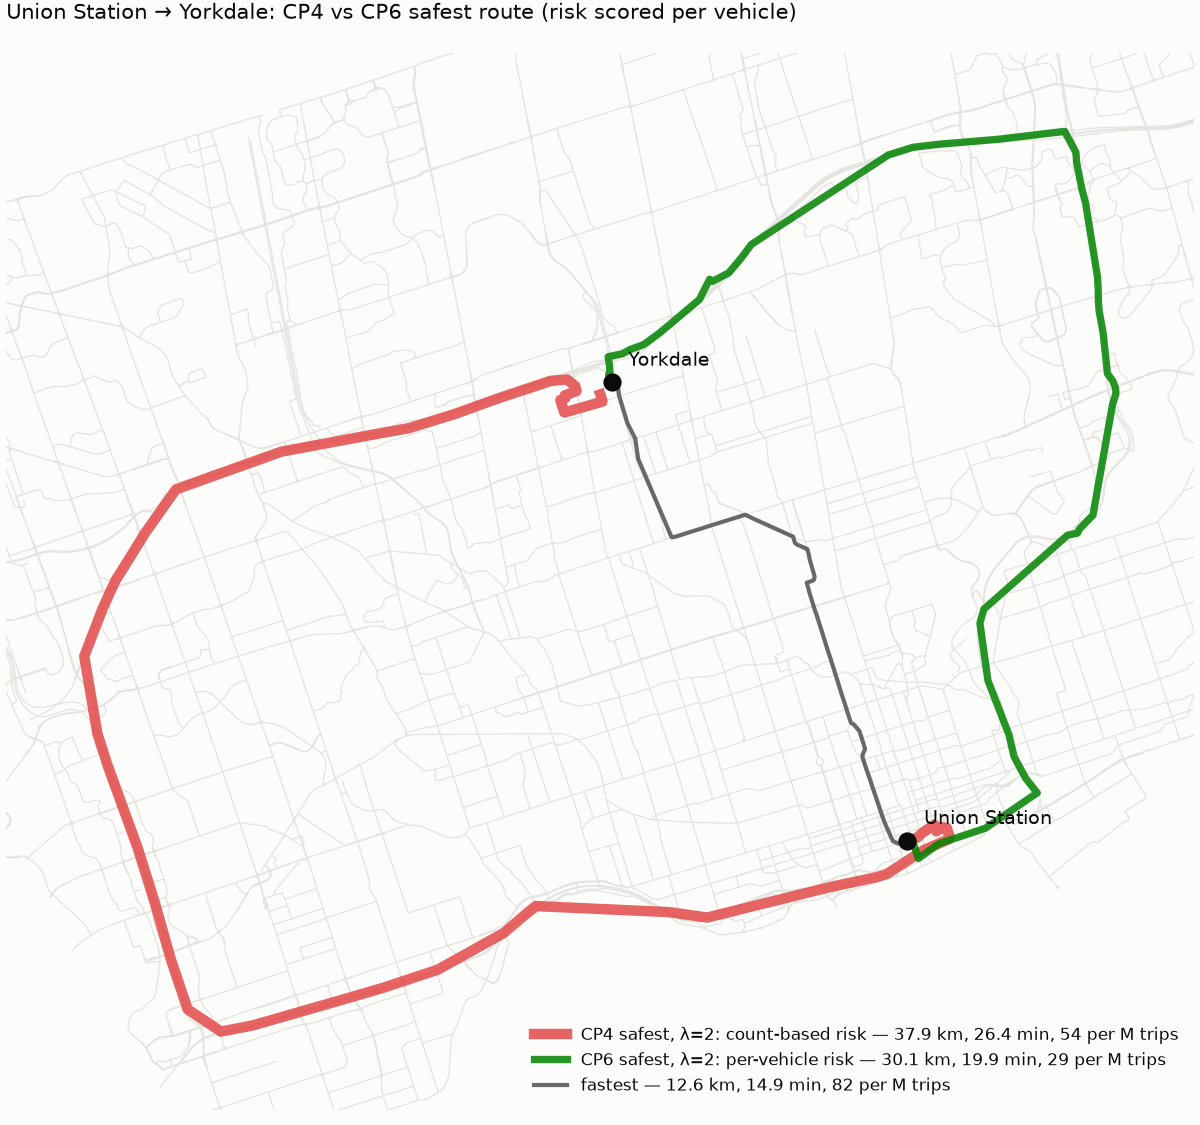
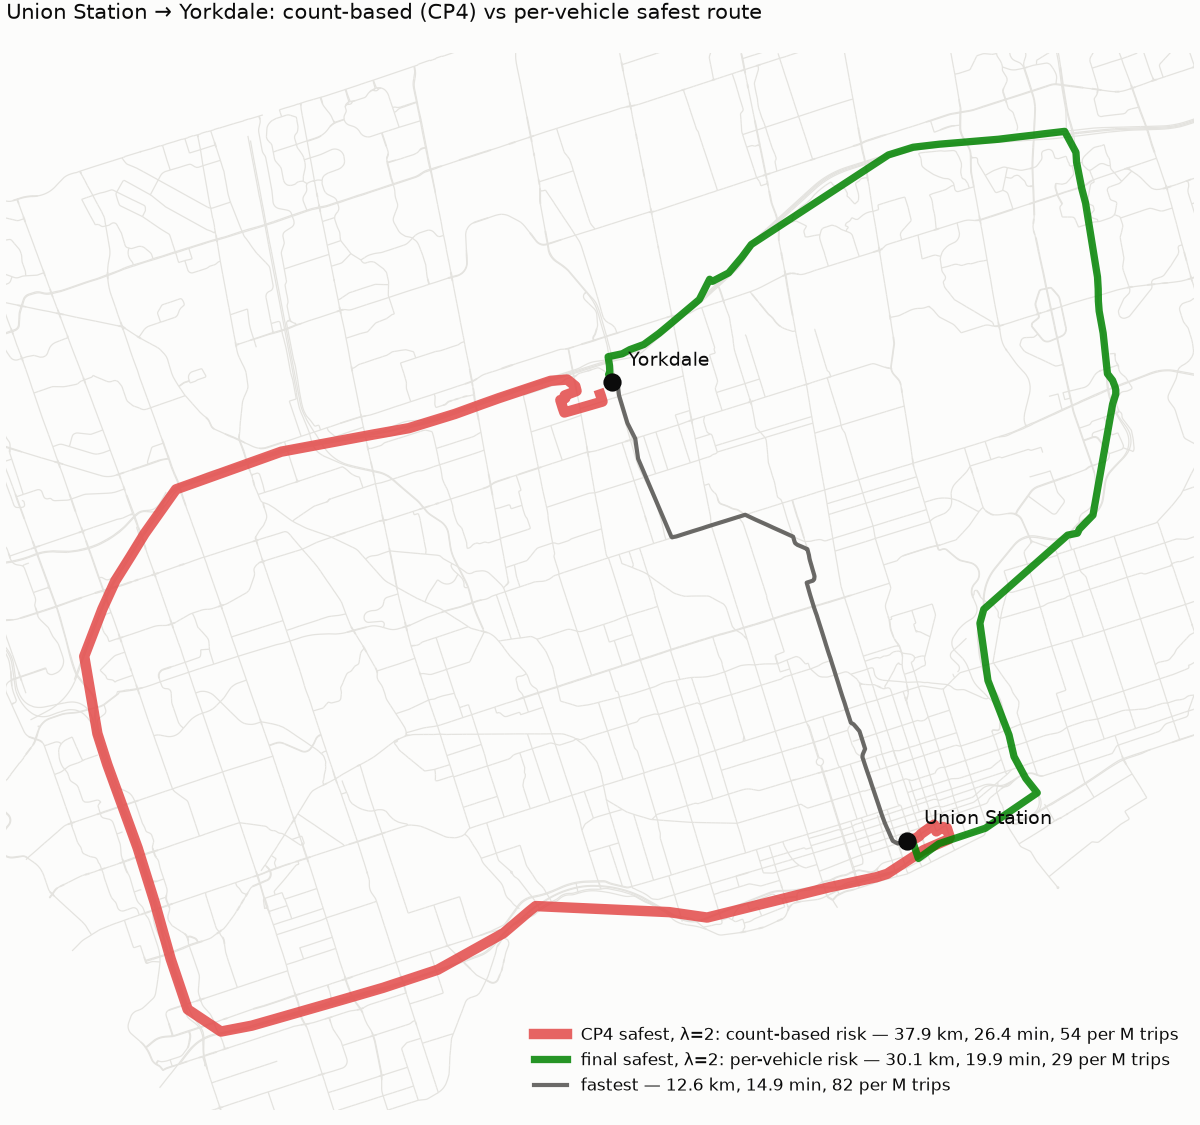
Re-validate routing on recalibrated risk against frozen CP4 and CP6 baselines

Changed region(s): [[0.2467, 0.0, 0.6783, 0.0311], [0.74, 0.9333, 0.9867, 0.9644], [0.4933, 0.9333, 0.7092, 0.9644]]

diff --git a/src/safepath/routing.py b/src/safepath/routing.py
@@ -434,6 +434,7 @@ def load_router(cfg: dict[str, Any], G: nx.MultiDiGraph | None = None) -> Router
 # --------------------------------------------------------------------------- sensitivity
 
 CP4_BASELINE = "cp4_baseline.json"
+CP6_BASELINE = "cp6_baseline.json"
 CITY_XWAY = ("Gardiner", "DVP", "Allen Road")
 
 
@@ -530,7 +531,7 @@ def plot_before_after(
     )
     styles = [
         (old, "#e34948", 5, f"CP4 safest, λ={lam:g}: count-based risk"),
-        (new, "#008300", 3.5, f"CP6 safest, λ={lam:g}: per-vehicle risk"),
+        (new, "#008300", 3.5, f"final safest, λ={lam:g}: per-vehicle risk"),
         (fast, TEXT_MUTED, 2, "fastest"),
     ]
     for route, color, width, label in styles:
@@ -548,7 +549,7 @@ def plot_before_after(
     ax.set_aspect("equal")
     ax.set_axis_off()
     ax.legend(loc="lower right", fontsize=8, frameon=False, labelcolor=TEXT)
-    ax.set_title("Union Station → Yorkdale: CP4 vs CP6 safest route (risk scored per vehicle)",
+    ax.set_title("Union Station → Yorkdale: count-based (CP4) vs per-vehicle safest route",
                  loc="left", fontsize=10, color=TEXT)  # fmt: skip
     fig.savefig(path, dpi=150, facecolor=SURFACE)
     plt.close(fig)
@@ -580,6 +581,7 @@ def run_routing(cfg: dict[str, Any]) -> dict[str, Any]:
         )
     sweep = pd.concat(sweeps)
     cp4 = json.loads((Path(cfg["paths"]["reports_dir"]) / CP4_BASELINE).read_text())
+    cp6 = json.loads((Path(cfg["paths"]["reports_dir"]) / CP6_BASELINE).read_text())
     segments = gpd.read_parquet(processed / SEGMENTS)
     case = plot_before_after(
         router, cp4["union_yorkdale_lambda2"], 2.0, segments,
@@ -587,25 +589,46 @@ def run_routing(cfg: dict[str, Any]) -> dict[str, Any]:
     )  # fmt: skip
     sens = run_sensitivity(cfg, router, pairs, lambdas)
     write_routing_report(
-        calib, summary, sweep, per_route_s, cp4, case, sens, reports / "routing.md"
+        calib, summary, sweep, per_route_s, cp4, cp6, case, sens, reports / "routing.md"
     )
     log.info("k = %.1f s per crash per million trips; wrote routing report",
              calib["k_seconds_per_crash"])  # fmt: skip
     return {"calibration": calib, "summary": summary, "case": case, "sensitivity": sens}
 
 
-def cp4_vs_cp6(cp4: dict[str, Any], summary: pd.DataFrame) -> pd.DataFrame:
-    old = pd.DataFrame(cp4["summary_200_trips"]).set_index("lam")
-    new = summary.set_index("lam")
+def version_table(cp4: dict[str, Any], cp6: dict[str, Any], summary: pd.DataFrame) -> pd.DataFrame:
+    versions = {
+        "CP4 (count-based)": pd.DataFrame(cp4["summary_200_trips"]).set_index("lam"),
+        "CP6 (per-vehicle, EB)": pd.DataFrame(cp6["summary_200_trips"]).set_index("lam"),
+        "CP7 (per-vehicle, recalibrated EB)": summary.set_index("lam"),
+    }
     cols = ["median extra min", "p90 extra min", "median % risk reduction",
             "median detour (km ratio)", "p90 detour (km ratio)", "motorway share",
             "residential share"]  # fmt: skip
     rows = []
-    for lam in new.index:
-        for label, src in (("CP4 (count-based)", old), ("CP6 (per-vehicle)", new)):
+    for lam in versions["CP7 (per-vehicle, recalibrated EB)"].index:
+        for label, src in versions.items():
             if lam in src.index:
                 rows.append({"λ": f"{lam:g}", "version": label, **src.loc[lam, cols].to_dict()})
     return pd.DataFrame(rows)
+
+
+def holds(cp6: dict[str, Any], summary: pd.DataFrame) -> list[str]:
+    """Plain statement of whether CP6's headline routing numbers survive recalibration."""
+    old = pd.DataFrame(cp6["summary_200_trips"]).set_index("lam")
+    new = summary.set_index("lam")
+    res_old, res_new = old.loc[1, "residential share"], new.loc[1, "residential share"]
+    cut_old, cut_new = old.loc[1, "median % risk reduction"], new.loc[1, "median % risk reduction"]
+    min_old, min_new = old.loc[1, "median extra min"], new.loc[1, "median extra min"]
+    res_word = "holds" if res_new <= 0.12 else "does not fully hold"
+    cut_word = "holds" if abs(cut_new - cut_old) <= 3 else "moved materially"
+    return [
+        f"- Residential share at λ = 1: {res_old:.0%} in CP6, {res_new:.0%} after "
+        f"recalibration; the drop from CP4's 21% {res_word}.",
+        f"- Median risk reduction at λ = 1: {cut_old:.1f}% in CP6, {cut_new:.1f}% now "
+        f"({cut_word}).",
+        f"- Median extra minutes at λ = 1: {min_old:.2f} in CP6, {min_new:.2f} now.",
+    ]
 
 
 def sensitivity_table(sens: pd.DataFrame) -> pd.DataFrame:
@@ -663,6 +686,7 @@ def write_routing_report(
     sweep: pd.DataFrame,
     per_route_s: float,
     cp4: dict[str, Any],
+    cp6: dict[str, Any],
     case: dict[str, Any],
     sens: pd.DataFrame,
     path: Path,
@@ -673,7 +697,7 @@ def write_routing_report(
     old = pd.DataFrame(cp4["summary_200_trips"]).set_index("lam")
     c4, c6, cf = case["cp4"], case["cp6"], case["fastest"]
     lines = [
-        "# Routing trade-off (CP6: per-vehicle risk)",
+        "# Routing trade-off (per-vehicle risk, recalibrated)",
         "",
         "Edge cost = travel_time (s, free-flow) + λ · k · risk, where risk is the expected "
         "number of crashes for one vehicle driving the edge, per million vehicles "
@@ -697,19 +721,22 @@ def write_routing_report(
         "",
         f"Mean routing time: {1000 * per_route_s:.0f} ms per route.",
         "",
-        "## CP4 vs CP6",
+        "## CP4 vs CP6 vs CP7",
         "",
         "CP4 routed on expected crashes per year at the locations a route passes (no "
-        "exposure). The '% risk reduction' columns are each version's own risk measure, so "
-        "they are not directly comparable; times, detours and road-class shares are.",
+        "exposure); CP6 on per-vehicle risk from EB; CP7 on per-vehicle risk from EB with the "
+        "volume recalibration (reports/calibration.md). CP4's '% risk reduction' is a "
+        "different risk measure, so it is not comparable; times, detours and road-class "
+        "shares are. CP6 numbers are frozen in reports/cp6_baseline.json.",
         "",
-        markdown_table(cp4_vs_cp6(cp4, summary), floats="{:.2f}"),
+        markdown_table(version_table(cp4, cp6, summary), floats="{:.2f}"),
         "",
+        *holds(cp6, summary),
         f"- Residential share at λ = 1: {old.loc[1, 'residential share']:.0%} in CP4, "
-        f"{s.loc[1, 'residential share']:.0%} now (fastest routes: "
+        f"{s.loc[1, 'residential share']:.0%} in CP7 (fastest routes: "
         f"{old.loc[0, 'residential share']:.0%} / {s.loc[0, 'residential share']:.0%}).",
         f"- Motorway share at λ = 1: {old.loc[1, 'motorway share']:.0%} in CP4, "
-        f"{s.loc[1, 'motorway share']:.0%} now (fastest routes: "
+        f"{s.loc[1, 'motorway share']:.0%} in CP7 (fastest routes: "
         f"{old.loc[0, 'motorway share']:.0%} / {s.loc[0, 'motorway share']:.0%}).",
         "",
         "## Case study: Union Station → Yorkdale at λ = 2",
@@ -724,12 +751,18 @@ def write_routing_report(
             for label, r in (
                 ("fastest", cf),
                 ("CP4 safest (count-based)", c4),
-                ("CP6 safest (per-vehicle)", c6),
+                ("CP7 safest (per-vehicle, recalibrated)", c6),
             )
         ],  # fmt: skip
+        *[
+            f"| CP6 safest (as reported in CP6) | {r['km']:.1f} | {r['minutes']:.1f} | "
+            f"{r['expected crashes per million trips']:.1f} | {r['motorway km']:.1f} |"
+            for r in cp6["union_yorkdale"]
+            if r["route"].startswith("CP6")
+        ],
         "",
-        "All three are scored with CP6 per-vehicle risk. The CP4 route ends at the node CP4 "
-        "snapped Yorkdale to (a turning circle on Highland Hill, behind the mall).",
+        "Fastest, CP4 and CP7 rows are scored with CP7 per-vehicle risk. The CP4 route ends "
+        "at the node CP4 snapped Yorkdale to (a turning circle on Highland Hill, behind the mall).",
         "",
         "**The Yorkdale hook.** CP4 snapped the Yorkdale preset (the middle of the mall) to the "
         "nearest graph node: a turning circle at the end of Highland Hill, a residential "

diff --git a/reports/routing.md b/reports/routing.md
@@ -1,45 +1,52 @@
-# Routing trade-off (CP6: per-vehicle risk)
+# Routing trade-off (per-vehicle risk, recalibrated)
 
 Edge cost = travel_time (s, free-flow) + λ · k · risk, where risk is the expected number of crashes for one vehicle driving the edge, per million vehicles (reports/risk.md). A route's risk is therefore expected crashes per million trips. Routing is turn-aware: a U-turn (driving back along the edge just used, or turning more than 150° back onto the same street through an intersection) costs 60 s.
 
 ## Scaling constant k
 
-k = **31.1 seconds per (crash per million trips)**, the fixed point of k = median travel time / median route risk on λ = 1 routes over 200 random origin/destination pairs (3-25 km apart, seed 7). Check: median risk cost / median travel time on the final λ = 1 routes = 1.000.
+k = **30.8 seconds per (crash per million trips)**, the fixed point of k = median travel time / median route risk on λ = 1 routes over 200 random origin/destination pairs (3-25 km apart, seed 7). Check: median risk cost / median travel time on the final λ = 1 routes = 1.000.
 
 | iteration | k | on |
 |---:|---:|---|
-| 0 | 21.46 | fastest routes |
-| 1 | 30.90 | lambda=1 routes |
-| 2 | 31.11 | lambda=1 routes |
+| 0 | 21.36 | fastest routes |
+| 1 | 30.54 | lambda=1 routes |
+| 2 | 30.81 | lambda=1 routes |
 
 ## Trade-off over 200 random pairs
 
 | lam | median extra min | p90 extra min | median % risk reduction | p90 % risk reduction | median detour (km ratio) | p90 detour (km ratio) | motorway share | residential share | routes with a U-turn |
 |---:|---:|---:|---:|---:|---:|---:|---:|---:|---:|
 | 0.00 | 0.00 | 0.00 | 0.00 | 0.00 | 1.00 | 1.00 | 0.50 | 0.03 | 0.00 |
-| 0.50 | 0.58 | 2.30 | 20.99 | 45.98 | 1.02 | 1.28 | 0.57 | 0.06 | 0.01 |
-| 1.00 | 1.45 | 3.62 | 26.54 | 50.17 | 1.04 | 1.44 | 0.58 | 0.08 | 0.03 |
-| 2.00 | 2.04 | 5.09 | 28.73 | 52.84 | 1.07 | 1.52 | 0.60 | 0.08 | 0.03 |
+| 0.50 | 0.58 | 2.34 | 20.64 | 45.67 | 1.02 | 1.28 | 0.57 | 0.06 | 0.01 |
+| 1.00 | 1.43 | 3.47 | 26.31 | 50.24 | 1.04 | 1.44 | 0.58 | 0.08 | 0.03 |
+| 2.00 | 2.04 | 5.21 | 28.64 | 52.68 | 1.07 | 1.53 | 0.61 | 0.08 | 0.03 |
 
-Mean routing time: 15 ms per route.
+Mean routing time: 13 ms per route.
 
-## CP4 vs CP6
+## CP4 vs CP6 vs CP7
 
-CP4 routed on expected crashes per year at the locations a route passes (no exposure). The '% risk reduction' columns are each version's own risk measure, so they are not directly comparable; times, detours and road-class shares are.
+CP4 routed on expected crashes per year at the locations a route passes (no exposure); CP6 on per-vehicle risk from EB; CP7 on per-vehicle risk from EB with the volume recalibration (reports/calibration.md). CP4's '% risk reduction' is a different risk measure, so it is not comparable; times, detours and road-class shares are. CP6 numbers are frozen in reports/cp6_baseline.json.
 
 | λ | version | median extra min | p90 extra min | median % risk reduction | median detour (km ratio) | p90 detour (km ratio) | motorway share | residential share |
 |---|---|---:|---:|---:|---:|---:|---:|---:|
 | 0 | CP4 (count-based) | 0.00 | 0.00 | 0.00 | 1.00 | 1.00 | 0.50 | 0.03 |
-| 0 | CP6 (per-vehicle) | 0.00 | 0.00 | 0.00 | 1.00 | 1.00 | 0.50 | 0.03 |
+| 0 | CP6 (per-vehicle, EB) | 0.00 | 0.00 | 0.00 | 1.00 | 1.00 | 0.50 | 0.03 |
+| 0 | CP7 (per-vehicle, recalibrated EB) | 0.00 | 0.00 | 0.00 | 1.00 | 1.00 | 0.50 | 0.03 |
 | 0.5 | CP4 (count-based) | 3.14 | 7.12 | 67.48 | 1.11 | 1.53 | 0.59 | 0.18 |
-| 0.5 | CP6 (per-vehicle) | 0.58 | 2.30 | 20.99 | 1.02 | 1.28 | 0.57 | 0.06 |
+| 0.5 | CP6 (per-vehicle, EB) | 0.58 | 2.30 | 20.99 | 1.02 | 1.28 | 0.57 | 0.06 |
+| 0.5 | CP7 (per-vehicle, recalibrated EB) | 0.58 | 2.34 | 20.64 | 1.02 | 1.28 | 0.57 | 0.06 |
 | 1 | CP4 (count-based) | 4.94 | 9.70 | 72.06 | 1.20 | 1.65 | 0.59 | 0.21 |
-| 1 | CP6 (per-vehicle) | 1.45 | 3.62 | 26.54 | 1.04 | 1.44 | 0.58 | 0.08 |
+| 1 | CP6 (per-vehicle, EB) | 1.45 | 3.62 | 26.54 | 1.04 | 1.44 | 0.58 | 0.08 |
+| 1 | CP7 (per-vehicle, recalibrated EB) | 1.43 | 3.47 | 26.31 | 1.04 | 1.44 | 0.58 | 0.08 |
 | 2 | CP4 (count-based) | 6.36 | 13.04 | 74.73 | 1.26 | 1.81 | 0.58 | 0.23 |
-| 2 | CP6 (per-vehicle) | 2.04 | 5.09 | 28.73 | 1.07 | 1.52 | 0.60 | 0.08 |
+| 2 | CP6 (per-vehicle, EB) | 2.04 | 5.09 | 28.73 | 1.07 | 1.52 | 0.60 | 0.08 |
+| 2 | CP7 (per-vehicle, recalibrated EB) | 2.04 | 5.21 | 28.64 | 1.07 | 1.53 | 0.61 | 0.08 |
 
-- Residential share at λ = 1: 21% in CP4, 8% now (fastest routes: 3% / 3%).
-- Motorway share at λ = 1: 59% in CP4, 58% now (fastest routes: 50% / 50%).
+- Residential share at λ = 1: 8% in CP6, 8% after recalibration; the drop from CP4's 21% holds.
+- Median risk reduction at λ = 1: 26.5% in CP6, 26.3% now (holds).
+- Median extra minutes at λ = 1: 1.45 in CP6, 1.43 now.
+- Residential share at λ = 1: 21% in CP4, 8% in CP7 (fastest routes: 3% / 3%).
+- Motorway share at λ = 1: 59% in CP4, 58% in CP7 (fastest routes: 50% / 50%).
 
 ## Case study: Union Station → Yorkdale at λ = 2
 
@@ -48,10 +55,11 @@ CP4 routed on expected crashes per year at the locations a route passes (no expo
 | route | km | minutes | expected crashes per million trips | motorway km |
 |---|---:|---:|---:|---:|
 | fastest | 12.6 | 14.9 | 82.2 | 3.2 |
-| CP4 safest (count-based) | 37.9 | 26.4 | 54.1 | 35.0 |
-| CP6 safest (per-vehicle) | 30.1 | 19.9 | 28.8 | 29.3 |
+| CP4 safest (count-based) | 37.9 | 26.4 | 54.0 | 35.0 |
+| CP7 safest (per-vehicle, recalibrated) | 30.1 | 19.9 | 28.7 | 29.3 |
+| CP6 safest (as reported in CP6) | 30.1 | 19.9 | 28.8 | 29.3 |
 
-All three are scored with CP6 per-vehicle risk. The CP4 route ends at the node CP4 snapped Yorkdale to (a turning circle on Highland Hill, behind the mall).
+Fastest, CP4 and CP7 rows are scored with CP7 per-vehicle risk. The CP4 route ends at the node CP4 snapped Yorkdale to (a turning circle on Highland Hill, behind the mall).
 
 **The Yorkdale hook.** CP4 snapped the Yorkdale preset (the middle of the mall) to the nearest graph node: a turning circle at the end of Highland Hill, a residential cul-de-sac behind the mall. Every route therefore left the 401 at Dufferin and wound south through Jane Osler, Groton, Bentworth and Ranee before turning back north into the cul-de-sac, which is the hook. It was a snapping artifact, not a routing one: the route had no repeated nodes. Fix: snap like a navigation app (never to a dead end; a point more than 100 m from any street snaps to the nearest arterial or collector access if it is within 150 m of the nearest street), so Yorkdale now snaps to Yorkdale Road. Separately, node-based routing could not see U-turns through divided-road intersections, which per-vehicle routing uses as a cheap way to dodge a risky intersection; routing now runs over turn movements with a U-turn penalty (tests: no immediate reversals; a median U-turn loses to a 30 s detour).
 
@@ -61,21 +69,21 @@ Freeway segment rates (400-series from MTO, city expressways from TPS) scaled by
 
 | variant | λ | median extra min | median % risk reduction | median detour (km ratio) | motorway share | residential share |
 |---|---:|---:|---:|---:|---:|---:|
-| baseline | 0.50 | 0.58 | 20.99 | 1.02 | 0.57 | 0.06 |
-| baseline | 1.00 | 1.45 | 26.54 | 1.04 | 0.58 | 0.08 |
-| baseline | 2.00 | 2.04 | 28.73 | 1.07 | 0.60 | 0.08 |
-| freeway rates x0.5 | 0.50 | 0.59 | 23.91 | 1.02 | 0.59 | 0.06 |
-| freeway rates x0.5 | 1.00 | 1.43 | 30.30 | 1.05 | 0.62 | 0.07 |
-| freeway rates x0.5 | 2.00 | 2.13 | 32.93 | 1.10 | 0.63 | 0.08 |
-| freeway rates x2 | 0.50 | 0.68 | 19.91 | 1.02 | 0.54 | 0.07 |
-| freeway rates x2 | 1.00 | 1.69 | 23.30 | 1.04 | 0.54 | 0.09 |
-| freeway rates x2 | 2.00 | 2.95 | 27.38 | 1.10 | 0.52 | 0.10 |
-| Gardiner/DVP/Allen volume +30% | 0.50 | 0.58 | 21.17 | 1.02 | 0.58 | 0.06 |
-| Gardiner/DVP/Allen volume +30% | 1.00 | 1.44 | 27.15 | 1.04 | 0.59 | 0.08 |
-| Gardiner/DVP/Allen volume +30% | 2.00 | 2.08 | 29.19 | 1.07 | 0.61 | 0.08 |
-| Gardiner/DVP/Allen volume -30% | 0.50 | 0.60 | 20.24 | 1.02 | 0.56 | 0.07 |
-| Gardiner/DVP/Allen volume -30% | 1.00 | 1.41 | 24.77 | 1.04 | 0.57 | 0.09 |
-| Gardiner/DVP/Allen volume -30% | 2.00 | 2.17 | 27.56 | 1.08 | 0.58 | 0.09 |
+| baseline | 0.50 | 0.58 | 20.64 | 1.02 | 0.57 | 0.06 |
+| baseline | 1.00 | 1.43 | 26.31 | 1.04 | 0.58 | 0.08 |
+| baseline | 2.00 | 2.04 | 28.64 | 1.07 | 0.61 | 0.08 |
+| freeway rates x0.5 | 0.50 | 0.61 | 23.25 | 1.02 | 0.59 | 0.06 |
+| freeway rates x0.5 | 1.00 | 1.40 | 29.87 | 1.05 | 0.62 | 0.07 |
+| freeway rates x0.5 | 2.00 | 2.12 | 32.09 | 1.10 | 0.63 | 0.08 |
+| freeway rates x2 | 0.50 | 0.68 | 19.97 | 1.02 | 0.54 | 0.07 |
+| freeway rates x2 | 1.00 | 1.57 | 22.77 | 1.04 | 0.54 | 0.09 |
+| freeway rates x2 | 2.00 | 2.89 | 27.17 | 1.10 | 0.53 | 0.10 |
+| Gardiner/DVP/Allen volume +30% | 0.50 | 0.58 | 20.72 | 1.02 | 0.58 | 0.06 |
+| Gardiner/DVP/Allen volume +30% | 1.00 | 1.43 | 26.76 | 1.04 | 0.59 | 0.08 |
+| Gardiner/DVP/Allen volume +30% | 2.00 | 2.08 | 29.39 | 1.08 | 0.61 | 0.08 |
+| Gardiner/DVP/Allen volume -30% | 0.50 | 0.60 | 19.57 | 1.02 | 0.56 | 0.07 |
+| Gardiner/DVP/Allen volume -30% | 1.00 | 1.40 | 24.58 | 1.04 | 0.57 | 0.09 |
+| Gardiner/DVP/Allen volume -30% | 2.00 | 2.11 | 27.57 | 1.07 | 0.58 | 0.09 |
 
 | variant | Union→Yorkdale λ=2 km | minutes |
 |---|---:|---:|
@@ -85,10 +93,10 @@ Freeway segment rates (400-series from MTO, city expressways from TPS) scaled by
 | Gardiner/DVP/Allen volume +30% | 30.1 | 19.9 |
 | Gardiner/DVP/Allen volume -30% | 30.6 | 20.3 |
 
-- freeway rates x0.5: motorway share 58% -> 62%, median extra minutes 1.45 -> 1.43, median risk reduction 27% -> 30% (λ = 1).
-- freeway rates x2: motorway share 58% -> 54%, median extra minutes 1.45 -> 1.69, median risk reduction 27% -> 23% (λ = 1).
-- Gardiner/DVP/Allen volume +30%: motorway share 58% -> 59%, median extra minutes 1.45 -> 1.44, median risk reduction 27% -> 27% (λ = 1).
-- Gardiner/DVP/Allen volume -30%: motorway share 58% -> 57%, median extra minutes 1.45 -> 1.41, median risk reduction 27% -> 25% (λ = 1).
+- freeway rates x0.5: motorway share 58% -> 62%, median extra minutes 1.43 -> 1.40, median risk reduction 26% -> 30% (λ = 1).
+- freeway rates x2: motorway share 58% -> 54%, median extra minutes 1.43 -> 1.57, median risk reduction 26% -> 23% (λ = 1).
+- Gardiner/DVP/Allen volume +30%: motorway share 58% -> 59%, median extra minutes 1.43 -> 1.43, median risk reduction 26% -> 27% (λ = 1).
+- Gardiner/DVP/Allen volume -30%: motorway share 58% -> 57%, median extra minutes 1.43 -> 1.40, median risk reduction 26% -> 25% (λ = 1).
 - Across all variants at λ = 1 the motorway share spans 8% (54%-62%), against 50% on the fastest routes.
 - **Conclusion:** the direction of the behaviour does not depend on the MTO/TPS comparability assumption: halving or doubling every freeway rate still leaves safer routes leaning on freeways (motorway share above the fastest routes' in every variant), and moves extra time and risk reduction by a fraction of their baseline values. The size of the freeway lean does depend on it.
 
@@ -106,18 +114,18 @@ Freeway segment rates (400-series from MTO, city expressways from TPS) scaled by
 
 | lam | minutes | expected_crashes | km | extra_minutes | risk_reduction_pct |
 |---:|---:|---:|---:|---:|---:|
-| 0.00 | 14.94 | 82.19 | 12.61 | 0.00 | 0.00 |
-| 0.10 | 14.94 | 82.19 | 12.61 | 0.00 | 0.00 |
-| 0.25 | 19.61 | 29.45 | 29.79 | 4.67 | 64.18 |
-| 0.50 | 19.61 | 29.45 | 29.79 | 4.67 | 64.18 |
-| 0.75 | 19.72 | 29.11 | 29.93 | 4.78 | 64.59 |
-| 1.00 | 19.72 | 29.11 | 29.93 | 4.78 | 64.59 |
-| 1.50 | 19.88 | 28.82 | 30.10 | 4.94 | 64.94 |
-| 2.00 | 19.88 | 28.82 | 30.10 | 4.94 | 64.94 |
-| 3.00 | 20.27 | 28.48 | 30.60 | 5.33 | 65.35 |
-| 5.00 | 20.27 | 28.48 | 30.60 | 5.33 | 65.35 |
-| 7.50 | 20.59 | 28.37 | 31.07 | 5.64 | 65.48 |
-| 10.00 | 20.59 | 28.37 | 31.07 | 5.64 | 65.48 |
+| 0.00 | 14.94 | 82.18 | 12.61 | 0.00 | 0.00 |
+| 0.10 | 14.94 | 82.18 | 12.61 | 0.00 | 0.00 |
+| 0.25 | 19.61 | 29.26 | 29.79 | 4.67 | 64.39 |
+| 0.50 | 19.61 | 29.26 | 29.79 | 4.67 | 64.39 |
+| 0.75 | 19.72 | 28.93 | 29.93 | 4.78 | 64.80 |
+| 1.00 | 19.72 | 28.93 | 29.93 | 4.78 | 64.80 |
+| 1.50 | 19.88 | 28.65 | 30.10 | 4.94 | 65.13 |
+| 2.00 | 19.88 | 28.65 | 30.10 | 4.94 | 65.13 |
+| 3.00 | 20.27 | 28.31 | 30.60 | 5.33 | 65.55 |
+| 5.00 | 20.27 | 28.31 | 30.60 | 5.33 | 65.55 |
+| 7.50 | 20.59 | 28.21 | 31.07 | 5.64 | 65.68 |
+| 10.00 | 20.59 | 28.21 | 31.07 | 5.64 | 65.68 |
 
 ### high park scarborough town centre
 
@@ -125,18 +133,18 @@ Freeway segment rates (400-series from MTO, city expressways from TPS) scaled by
 
 | lam | minutes | expected_crashes | km | extra_minutes | risk_reduction_pct |
 |---:|---:|---:|---:|---:|---:|
-| 0.00 | 24.29 | 28.47 | 32.77 | 0.00 | 0.00 |
-| 0.10 | 24.33 | 27.39 | 32.77 | 0.03 | 3.78 |
-| 0.25 | 24.43 | 26.28 | 32.69 | 0.14 | 7.68 |
-| 0.50 | 24.43 | 26.28 | 32.69 | 0.14 | 7.68 |
-| 0.75 | 24.54 | 25.94 | 32.83 | 0.25 | 8.87 |
-| 1.00 | 24.54 | 25.94 | 32.83 | 0.25 | 8.87 |
-| 1.50 | 24.54 | 25.94 | 32.83 | 0.25 | 8.87 |
-| 2.00 | 24.54 | 25.94 | 32.83 | 0.25 | 8.87 |
-| 3.00 | 24.93 | 25.60 | 33.33 | 0.64 | 10.07 |
-| 5.00 | 25.94 | 24.99 | 34.59 | 1.65 | 12.21 |
-| 7.50 | 26.25 | 24.88 | 35.05 | 1.96 | 12.58 |
-| 10.00 | 26.25 | 24.88 | 35.05 | 1.96 | 12.58 |
+| 0.00 | 24.29 | 28.56 | 32.77 | 0.00 | 0.00 |
+| 0.10 | 24.33 | 27.48 | 32.77 | 0.03 | 3.80 |
+| 0.25 | 24.43 | 26.35 | 32.69 | 0.14 | 7.74 |
+| 0.50 | 24.43 | 26.35 | 32.69 | 0.14 | 7.74 |
+| 0.75 | 24.54 | 26.01 | 32.83 | 0.25 | 8.93 |
+| 1.00 | 24.54 | 26.01 | 32.83 | 0.25 | 8.93 |
+| 1.50 | 24.54 | 26.01 | 32.83 | 0.25 | 8.93 |
+| 2.00 | 24.54 | 26.01 | 32.83 | 0.25 | 8.93 |
+| 3.00 | 24.93 | 25.67 | 33.33 | 0.64 | 10.12 |
+| 5.00 | 25.94 | 25.07 | 34.59 | 1.65 | 12.23 |
+| 7.50 | 26.25 | 24.96 | 35.05 | 1.96 | 12.59 |
+| 10.00 | 26.25 | 24.96 | 35.05 | 1.96 | 12.59 |
 
 ### uoft st george pearson area
 
@@ -144,15 +152,15 @@ Freeway segment rates (400-series from MTO, city expressways from TPS) scaled by
 
 | lam | minutes | expected_crashes | km | extra_minutes | risk_reduction_pct |
 |---:|---:|---:|---:|---:|---:|
-| 0.00 | 19.44 | 50.46 | 26.53 | 0.00 | 0.00 |
-| 0.10 | 19.45 | 48.95 | 26.50 | 0.01 | 2.99 |
-| 0.25 | 20.10 | 40.32 | 27.61 | 0.66 | 20.10 |
-| 0.50 | 20.10 | 40.32 | 27.61 | 0.66 | 20.10 |
-| 0.75 | 20.10 | 40.32 | 27.61 | 0.66 | 20.10 |
-| 1.00 | 20.10 | 40.32 | 27.61 | 0.66 | 20.10 |
-| 1.50 | 20.10 | 40.32 | 27.61 | 0.66 | 20.10 |
-| 2.00 | 20.58 | 39.77 | 28.02 | 1.14 | 21.18 |
-| 3.00 | 20.58 | 39.77 | 28.02 | 1.14 | 21.18 |
-| 5.00 | 20.58 | 39.77 | 28.02 | 1.14 | 21.18 |
-| 7.50 | 20.58 | 39.77 | 28.02 | 1.14 | 21.18 |
-| 10.00 | 21.98 | 39.45 | 28.16 | 2.54 | 21.82 |
+| 0.00 | 19.44 | 50.10 | 26.53 | 0.00 | 0.00 |
+| 0.10 | 19.45 | 48.60 | 26.50 | 0.01 | 2.99 |
+| 0.25 | 20.10 | 40.31 | 27.61 | 0.66 | 19.55 |
+| 0.50 | 20.10 | 40.31 | 27.61 | 0.66 | 19.55 |
+| 0.75 | 20.10 | 40.31 | 27.61 | 0.66 | 19.55 |
+| 1.00 | 20.10 | 40.31 | 27.61 | 0.66 | 19.55 |
+| 1.50 | 20.10 | 40.31 | 27.61 | 0.66 | 19.55 |
+| 2.00 | 20.58 | 39.79 | 28.02 | 1.14 | 20.59 |
+| 3.00 | 20.58 | 39.79 | 28.02 | 1.14 | 20.59 |
+| 5.00 | 20.58 | 39.79 | 28.02 | 1.14 | 20.59 |
+| 7.50 | 20.58 | 39.79 | 28.02 | 1.14 | 20.59 |
+| 10.00 | 20.58 | 39.79 | 28.02 | 1.14 | 20.59 |
